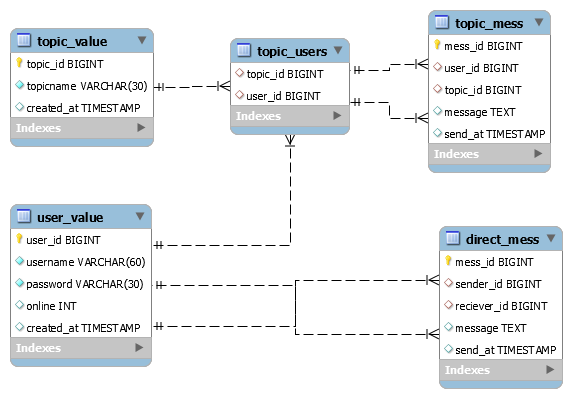
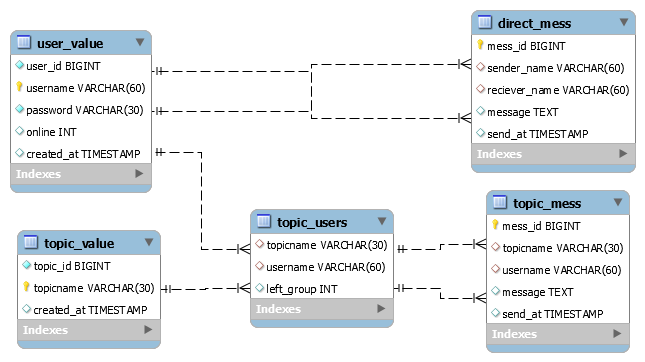
reddiTalk

diff --git a/server/serverDatabase.java b/server/serverDatabase.java
@@ -16,7 +16,7 @@ public class serverDatabase {
 	public boolean userExist (String name) {
 		try {
 			connection = DriverManager.getConnection(url,username,password);
-			sql = "SELECT * from user_value where username = (?)";
+			sql = "SELECT * FROM user_value WHERE username = (?);";
 			pstmnt = connection.prepareStatement(sql);
 			pstmnt.setString(1,name);
 			resultSet = pstmnt.executeQuery();
@@ -37,7 +37,7 @@ public class serverDatabase {
 	public void userSignup (String name, String pass) {
 		try {
 			connection = DriverManager.getConnection(url,username,password);
-			sql = "INSERT INTO user_value (username, password) VALUES (?, ?)";
+			sql = "INSERT INTO user_value (username, password) VALUES (?, ?);";
 			pstmnt = connection.prepareStatement(sql);
 			pstmnt.setString(1,name);
 			pstmnt.setString(2,pass);
@@ -54,11 +54,11 @@ public class serverDatabase {
 		try {
 			connection = DriverManager.getConnection(url,username,password);
 			stmnt = connection.createStatement();
-			sql = ("SELECT * FROM user_value");
+			sql = ("SELECT * FROM user_value;");
 			resultSet = stmnt.executeQuery(sql);
 			while(resultSet.next()) { 
 				 if(name.equals(resultSet.getString("username")) && pass.equals(resultSet.getString("password"))) {
-					 String s = "update user_value set password=? where username=?";
+					 String s = "UPDATE user_value SET password=(?) WHERE username=(?);";
 					 pstmnt = connection.prepareStatement(s);
 					 pstmnt.setString(1, newPass);
 					 pstmnt.setString(2, name);
@@ -77,11 +77,11 @@ public class serverDatabase {
 		return false;
 	}
 	
-	public boolean userLogin (String name, String pass) {
+	public boolean userLogin(String name, String pass) {
 		try {
 			connection = DriverManager.getConnection(url,username,password);
 			stmnt = connection.createStatement();
-			sql = ("SELECT * FROM user_value where username=(?) and password=(?);");
+			sql = ("SELECT * FROM user_value WHERE username=(?) AND password=(?);");
 			pstmnt = connection.prepareStatement(sql);
 			pstmnt.setString(1, name);
 			pstmnt.setString(2, pass);
@@ -99,59 +99,10 @@ public class serverDatabase {
 		return false;
 	}
 	
-	public void userOnline (String name) {
-		try {
-			connection = DriverManager.getConnection(url,username,password);
-			sql = "UPDATE user_value SET online=1 WHERE username=(?);";
-			pstmnt = connection.prepareStatement(sql);
-			pstmnt.setString(1,name);
-			pstmnt.executeUpdate();
-		}	
-		catch (SQLException ignore) {}
-		finally {
-	        if (pstmnt != null) try { pstmnt.close(); } catch (SQLException ignore) {}
-	        if (connection != null) try { connection.close(); } catch (SQLException ignore) {}
-	    }
-	}
-	
-	public void userOffline (String name) {
-		try {
-			connection = DriverManager.getConnection(url,username,password);
-			sql = "UPDATE user_value SET online=0 WHERE username=(?);";
-			pstmnt = connection.prepareStatement(sql);
-			pstmnt.setString(1,name);
-			pstmnt.executeUpdate();
-		}	
-		catch (SQLException ignore) {}
-		finally {
-	        if (pstmnt != null) try { pstmnt.close(); } catch (SQLException ignore) {}
-	        if (connection != null) try { connection.close(); } catch (SQLException ignore) {}
-	    }
-	}
-	
-	public boolean checkOnline (String name) {
-		try {
-			connection = DriverManager.getConnection(url,username,password);
-			sql = "SELECT * from user_value where username=(?) AND online=1;";
-			pstmnt = connection.prepareStatement(sql);
-			pstmnt.setString(1,name);
-			resultSet = pstmnt.executeQuery();
-			if(resultSet.next()) {
-				return true;
-			}
-		}	
-		catch (SQLException ignore) {}
-		finally {
-	        if (pstmnt != null) try { pstmnt.close(); } catch (SQLException ignore) {}
-	        if (connection != null) try { connection.close(); } catch (SQLException ignore) {}
-	    }
-		return false;
-	}
-	
 	public boolean topicExist(String name) {
 		try {
 			connection = DriverManager.getConnection(url,username,password);
-			sql = "SELECT * from topic_value WHERE topicname = (?)";
+			sql = "SELECT * from topic_value WHERE topicname = (?);";
 			pstmnt = connection.prepareStatement(sql);
 			pstmnt.setString(1, name);
 			resultSet = pstmnt.executeQuery();
@@ -170,7 +121,7 @@ public class serverDatabase {
 	public void topicSignup(String name) {
 		try {
 			connection = DriverManager.getConnection(url,username,password);
-			sql = "INSERT INTO topic_value (topicname) VALUES (?)";
+			sql = "INSERT INTO topic_value (topicname) VALUES (?);";
 			pstmnt = connection.prepareStatement(sql);
 			pstmnt.setString(1, name);
 			pstmnt.executeUpdate();
@@ -186,11 +137,11 @@ public class serverDatabase {
 	public void setTopicUser(String name, String topic) {
 		try {
 			connection = DriverManager.getConnection(url,username,password);
-			sql = "INSERT INTO topic_users (user_id,topic_id)"
-					+ "SELECT user_value.user_id, topic_value.topic_id"
-					+ " FROM user_value,topic_value"
-					+ " WHERE user_value.username = (?)"
-					+ " AND topic_value.topicname = (?)";
+			sql = "INSERT INTO topic_users (username,topicname) VALUES"
+					+ 	"("
+					+		"(?),"
+					+		"(?)"
+					+	");";
 			pstmnt = connection.prepareStatement(sql);
 			pstmnt.setString(1, name);
 			pstmnt.setString(2, topic);
@@ -207,10 +158,11 @@ public class serverDatabase {
 	public boolean checkTopicUser(String name, String topic) {
 		try {
 			connection = DriverManager.getConnection(url,username,password);
-			sql = "SELECT user_id, topic_id"
+			sql = "SELECT username, topicname"
 					+ " FROM topic_users"
-					+ " WHERE user_id = (SELECT user_id FROM user_value WHERE username=(?))"
-					+ " AND topic_id = (SELECT topic_id FROM topic_value WHERE topicname=(?));";
+					+ " WHERE username = (?)"
+					+ " AND topicname = (?)"
+					+ " AND left_group=0;";
 			pstmnt = connection.prepareStatement(sql);
 			pstmnt.setString(1, name);
 			pstmnt.setString(2, topic);
@@ -232,11 +184,11 @@ public class serverDatabase {
 	public void sendDirectMess(String sender, String reciever, String mess) {
 		try {
 			connection = DriverManager.getConnection(url,username,password);
-			sql = "INSERT INTO direct_mess (sender_id,reciever_id,message) VALUES"
+			sql = "INSERT INTO direct_mess (sender_name,reciever_name,message) VALUES"
 				+ 	"("
-				+		"(SELECT a.user_id FROM user_value AS a WHERE username=(?))"
-				+		",(SELECT b.user_id FROM user_value AS b WHERE username=(?))"
-				+		",?"
+				+		"(?),"
+				+		"(?),"
+				+		"(?)"
 				+	");";
 			pstmnt = connection.prepareStatement(sql);
 			pstmnt.setString(1, sender);
@@ -252,12 +204,10 @@ public class serverDatabase {
 	    }
 	}
 	
-	public void deleteTopicUser(String name, String topic) {
+	public void leaveTopicUser(String name, String topic) {
 		try {
 			connection = DriverManager.getConnection(url,username,password);
-			sql = "DELETE FROM topic_users"
-					+ " WHERE user_id = (SELECT user_id FROM user_value WHERE username=(?))"
-					+ " AND topic_id = (SELECT topic_id FROM topic_value WHERE topicname=(?));";
+			sql = "UPDATE topic_users SET left_group=1 WHERE username=(?) AND topicname=(?);";
 			pstmnt = connection.prepareStatement(sql);
 			pstmnt.setString(1, name);
 			pstmnt.setString(2, topic);
@@ -274,12 +224,12 @@ public class serverDatabase {
 	public void sendTopicMess(String name, String topic, String mess) {
 		try {
 			connection = DriverManager.getConnection(url,username,password);
-			sql = "INSERT INTO topic_mess (user_id,topic_id,message) VALUES"
+			sql = "INSERT INTO topic_mess (username, topicname, message) VALUES "
 					+ "("
-					+ " (SELECT user_id FROM topic_users WHERE user_id IN (SELECT user_id FROM user_value WHERE username=(?)))"
-					+ " ,(SELECT topic_id FROM topic_users WHERE topic_id IN (SELECT topic_id FROM topic_value WHERE topicname=(?)))"
-					+ " ,(?)"
-					+ " );";
+					+ " (?), "
+					+ " (?), "
+					+ " (?)"
+					+ ");";
 			pstmnt = connection.prepareStatement(sql);
 			pstmnt.setString(1, name);
 			pstmnt.setString(2, topic);

diff --git a/server/serverThreader.java b/server/serverThreader.java
@@ -4,8 +4,6 @@ import java.io.InputStream;
 import java.io.InputStreamReader;
 import java.io.OutputStream;
 import java.net.Socket;
-import java.util.HashSet;
-import java.util.Iterator;
 import java.util.List;
 
 import org.apache.commons.lang.StringUtils;
@@ -81,8 +79,8 @@ public class serverThreader extends Thread {
 		String msg;
 		if(tokens.length==2 && data.userExist(login)) {
 			String topic = tokens[1];
-			if(data.topicExist(topic)) {
-				data.deleteTopicUser(login,topic);
+			if(data.checkTopicUser(login,topic)) {
+				data.leaveTopicUser(login,topic);
 				msg="Successfully left "+topic+'\n';
 				outputStream.write(msg.getBytes());
 			}
@@ -131,19 +129,19 @@ public class serverThreader extends Thread {
 			String name=tokens[1];
 			String pass=tokens[2];
 			String newpass=tokens[3];
-			if(data.userExist(name) && data.userExist(login)) {
+			if(login.equalsIgnoreCase(name) && data.userLogin(name,pass)) {
 				data.userUpdate(name, pass, newpass);
 				msg="Successsfully changed to new password\n";
 				outputStream.write(msg.getBytes());
 			}
-			else if(!data.userExist(name) || login!=name) {
-				msg="Matching user not found!\nTry again.\n";
+			else if(!login.equalsIgnoreCase(name)) {
+				msg="Can't change other user's password!\n";
 				outputStream.write(msg.getBytes());
 			}
-		}
-		else if(!data.userExist(login)) {
-			msg = "Try logining before updating password!\n";
-			outputStream.write(msg.getBytes());
+			else if(!data.userLogin(name,pass)) {
+				msg="Username and current password doesn't match!\nTry again!\n";
+				outputStream.write(msg.getBytes());
+			}
 		}
 	}
 
@@ -174,14 +172,16 @@ public class serverThreader extends Thread {
         String body = tokens[2];
         boolean isTopic = (sendTo.charAt(0) == '#') ;
         
-        if(login!=null && data.checkOnline(login)) {
+        if(login!=null) {
 	        List<serverThreader> threadList = server.getThreadList();
 	        for(serverThreader thread : threadList) {
 	        	
-	        	if(isTopic && data.checkTopicUser(login,sendTo)) { 
-	        		data.sendTopicMess(login, sendTo, body);
-	        		String outMsg = "msg " + sendTo + ":" + login + " " + body + "\n";
-		            thread.send(outMsg);
+	        	if(isTopic) { 
+	        		if(data.checkTopicUser(thread.toString(),sendTo)) { 
+		        		data.sendTopicMess(login, sendTo, body);
+		        		String outMsg = "msg " + sendTo + ":" + login + " " + body + "\n";
+			            thread.send(outMsg);
+	        		}
 	        	}
 	        	
 	        	else if (sendTo.equalsIgnoreCase(thread.getLogin())) {
@@ -198,12 +198,11 @@ public class serverThreader extends Thread {
     }
 
     private void handleLogoff() throws IOException {
-    	data.userOffline(login);
         server.removeThreader(this);
         List<serverThreader> threadList = server.getThreadList();
         String offlineMsg = "Offline " + login + "\n";
         for(serverThreader threader : threadList) {
-            if (!data.checkOnline(login)) {
+            if (!login.equals(threader.getLogin())) {
                 threader.send(offlineMsg);
             }
         }
@@ -217,16 +216,14 @@ public class serverThreader extends Thread {
             String password = tokens[2];
             serverDatabase data = new serverDatabase();
             
-            if (data.userLogin(login,password) && !data.checkOnline(login) && this.login==null) {
-            	data.userOnline(login);
+            if (data.userLogin(login,password) && this.login==null) {
                 String msg = "Login successful\n";
                 outputStream.write(msg.getBytes());
                 this.login = login;
                 System.out.println("Welcome " + login);
                 
                 List<serverThreader> threadList = server.getThreadList();
-                
-                // send current user all other online logins
+      
                 for(serverThreader threader : threadList) {
                     if (threader.getLogin() != null) {
                         if (!login.equals(threader.getLogin())) {
@@ -235,18 +232,13 @@ public class serverThreader extends Thread {
                         }
                     }
                 } 
-                // send other online users current user's status
+                
                 String onlineMsg = "Online " + login + "\n";
                 for(serverThreader threader : threadList) {
                     if (!login.equals(threader.getLogin())) {
                         threader.send(onlineMsg);
                     }
                 }
-            }
-            else if (data.userLogin(login,password) && data.checkOnline(login)) {
-            	String msg = "Logging off from previous session!\nPlease try logging in once again\n";
-                outputStream.write(msg.getBytes());
-                data.userOffline(login);
             }
             else{
                 String msg = "No such user found!\n";

diff --git a/server/databaseSetup.java b/server/databaseSetup.java
@@ -109,10 +109,9 @@ public class databaseSetup {
 			
 			Statement stmt = connection.createStatement();
 		    String sql = "CREATE TABLE user_value("
-		    		+ "user_id bigint unsigned NOT NULL UNIQUE AUTO_INCREMENT PRIMARY KEY,"
-		    		+ "username varchar(60) NOT NULL UNIQUE,"
+		    		+ "user_id bigint unsigned NOT NULL UNIQUE AUTO_INCREMENT,"
+		    		+ "username varchar(60) PRIMARY KEY,"
 		    		+ "password varchar(30) NOT NULL,"
-		    		+ "online int unsigned DEFAULT 0,"
 		    		+ "created_at timestamp default current_timestamp"
 		    		+ ");";
 		    stmt.executeUpdate(sql);
@@ -133,8 +132,8 @@ public class databaseSetup {
 
 			Statement stmt = connection.createStatement();
 		    String sql = "CREATE TABLE topic_value ("
-		    		+ "topic_id bigint unsigned NOT NULL UNIQUE AUTO_INCREMENT PRIMARY KEY,"
-		    		+ "topicname varchar(30) NOT NULL UNIQUE,"
+		    		+ "topic_id bigint unsigned NOT NULL UNIQUE AUTO_INCREMENT ,"
+		    		+ "topicname varchar(30) PRIMARY KEY,"
 		    		+ "created_at timestamp default current_timestamp"
 		    		+ ");";   
 		    stmt.executeUpdate(sql);
@@ -152,10 +151,12 @@ public class databaseSetup {
 			
 			Statement stmt = connection.createStatement();
 		    String sql = "CREATE TABLE topic_users ("
-		    		+ "topic_id bigint unsigned,"
-		    		+ "user_id bigint unsigned,"
-		    		+ "FOREIGN KEY (topic_id) REFERENCES topic_value(topic_id) ON DELETE CASCADE,"
-		    		+ "FOREIGN KEY (user_id) REFERENCES user_value(user_id) ON DELETE CASCADE"
+		    		+ "topicname varchar(30),"
+		    		+ "username varchar(60),"
+		    		+ "joined_at timestamp default current_timestamp,"
+		    		+ "left_group int unsigned DEFAULT 0,"
+		    		+ "FOREIGN KEY (topicname) REFERENCES topic_value(topicname),"
+		    		+ "FOREIGN KEY (username) REFERENCES user_value(username)"
 		    		+ ");";
 		    stmt.executeUpdate(sql);
 		    
@@ -173,13 +174,13 @@ public class databaseSetup {
 			Statement stmt = connection.createStatement();
 		    String sql = "CREATE TABLE topic_mess("
 		    		+ "mess_id bigint unsigned AUTO_INCREMENT,"
-		    		+ "user_id bigint unsigned,"
-		    		+ "topic_id bigint unsigned,"
+		    		+ "topicname varchar(30),"
+		    		+ "username varchar(60),"
 		    		+ "message TEXT,"
 		    		+ "send_at timestamp default current_timestamp,"
 		    		+ "PRIMARY KEY(mess_id),"
-		    		+ "FOREIGN KEY (topic_id) REFERENCES topic_users(topic_id),"
-		    		+ "FOREIGN KEY (user_id) REFERENCES topic_users(user_id) ON DELETE CASCADE"
+		    		+ "FOREIGN KEY (topicname) REFERENCES topic_users(topicname),"
+		    		+ "FOREIGN KEY (username) REFERENCES topic_users(username)"
 		    		+ ");";
 		    stmt.executeUpdate(sql);
 		    
@@ -197,13 +198,13 @@ public class databaseSetup {
 			Statement stmt = connection.createStatement();
 		    String sql = "CREATE TABLE direct_mess("
 		    		+ "mess_id bigint unsigned AUTO_INCREMENT,"
-		    		+ "sender_id bigint unsigned,"
-		    		+ "reciever_id bigint unsigned,"	
+		    		+ "sender_name varchar(60),"
+		    		+ "reciever_name varchar(60),"	
 		    		+ "message TEXT,"
 		    		+ "send_at timestamp default current_timestamp,"
 		    		+ "PRIMARY KEY (mess_id),"
-		    		+ "FOREIGN KEY (sender_id) REFERENCES user_value(user_id) ON DELETE CASCADE,"
-		    		+ "FOREIGN KEY (reciever_id) REFERENCES user_value(user_id) ON DELETE CASCADE"
+		    		+ "FOREIGN KEY (sender_name) REFERENCES user_value(username),"
+		    		+ "FOREIGN KEY (reciever_name) REFERENCES user_value(username)"
 		    		+ ");";
 		    stmt.executeUpdate(sql);
 		    
